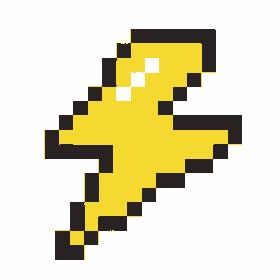
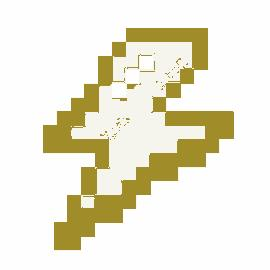
fixed unique bgcolor

diff --git a/src/main/java/com/mycompany/nonogram_online/level/Level.java b/src/main/java/com/mycompany/nonogram_online/level/Level.java
@@ -311,6 +311,8 @@ public class Level {
     public void drawMatrix(Graphics g, int layer, boolean isInGame, boolean isFocusedLayer) {
         matrixStartPosX = isInGame ? matrixMostMostNumbers * squareSize : matrixStartPosX;
         matrixStartPosY = isInGame ? matrixMostMostNumbers * squareSize + 30 : matrixStartPosY;
+        g.setColor(colors.get(0));
+        g.fillRect(matrixStartPosX, matrixStartPosY, squareSize * hanyszorhany, squareSize * hanyszorhany);
         for (int i = 0; i < hanyszorhany; i++) {
             for (int k = 0; k < hanyszorhany; k++) {
                 Color color = matrix.get(layer).getTileByIsDone(i, k) ? colors.get(matrix.get(layer).getTileBy(i, k)) : colors.get(0);
